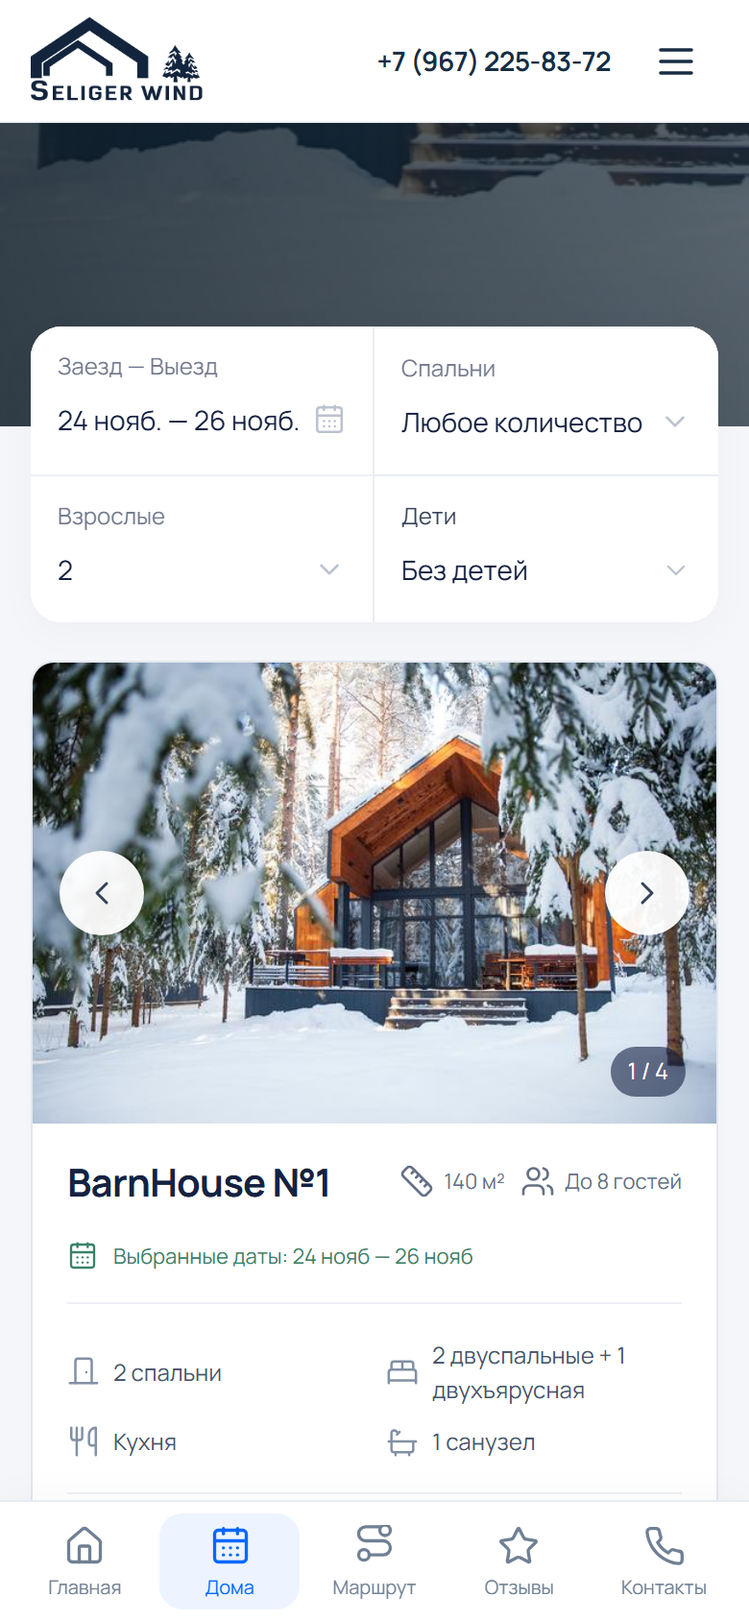
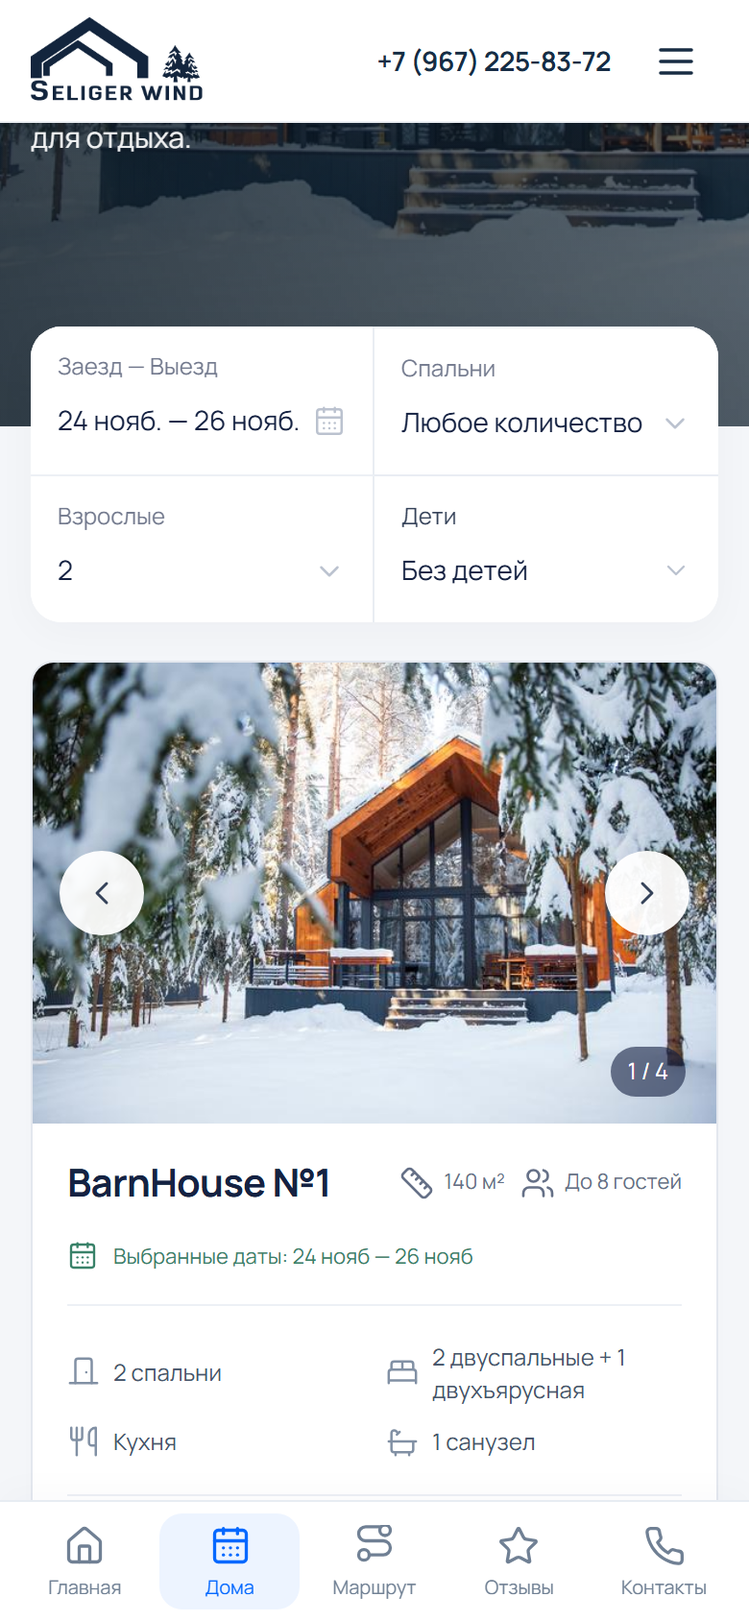
Tighten mobile hero and refresh presentation copy and screenshots

diff --git a/presentation.html b/presentation.html
@@ -1,24 +1,24 @@
-<!doctype html><html lang="ru"><head><meta charset="utf-8"><meta name="viewport" content="width=device-width,initial-scale=1"><meta name="robots" content="noindex,nofollow"><title>Seliger Wind — сравнение сайта до и после</title><link rel="stylesheet" href="presentation.css?v=details1"></head><body>
+<!doctype html><html lang="ru"><head><meta charset="utf-8"><meta name="viewport" content="width=device-width,initial-scale=1"><meta name="robots" content="noindex,nofollow"><title>Seliger Wind — сравнение сайта до и после</title><link rel="stylesheet" href="presentation.css?v=copy2"></head><body>
 <header class="presentation-header"><a href="#start">SELIGER WIND<span>Сравнение сайта до и после</span></a><nav class="presentation-nav" aria-label="Разделы презентации"><a href="#catalog">Изменения</a><a href="#quick">На телефоне</a><a href="#speed">Скорость</a><a href="#important">Важно</a><a href="#conclusion">Вывод</a></nav></header>
 <main>
 <section class="screen first-screen" id="start">
 <div class="screen-heading"><div><h1>Старая и новая версия сайта</h1><p class="intro">Передвиньте разделитель, чтобы сравнить первый экран.</p></div><div class="device-tabs" data-hero-tabs><button class="active" data-device="desktop" aria-pressed="true">Компьютер</button><button data-device="mobile" aria-pressed="false">Телефон</button></div></div>
-<div id="hero-desktop"><div class="hero-comparison-labels"><span>До</span><span>После</span></div><div class="browser-frame"><div class="browser-top"><i></i><i></i><i></i><span>Seliger Wind · первый экран</span></div><div class="reveal" style="--split:50%"><img src="assets/part-hero-after-desktop.webp?v=hd2" alt="Новый первый экран Seliger Wind" width="1440" height="900"><img class="before-image" src="assets/part-hero-before-desktop.webp?v=hd2" alt="Первый экран официального сайта до изменений" width="1440" height="900"><div class="reveal-line"><span>‹　›</span></div><input id="compare-range" type="range" min="0" max="100" value="50" aria-label="Граница сравнения старой и новой версии"></div></div></div>
+<div id="hero-desktop"><div class="hero-comparison-labels"><span>До</span><span>После</span></div><div class="browser-frame"><div class="browser-top"><i></i><i></i><i></i><span>Seliger Wind · первый экран</span></div><div class="reveal" style="--split:50%"><img src="assets/part-hero-after-desktop.webp?v=copy2" alt="Новый первый экран Seliger Wind" width="1440" height="900"><img class="before-image" src="assets/part-hero-before-desktop.webp?v=copy2" alt="Первый экран официального сайта до изменений" width="1440" height="900"><div class="reveal-line"><span>‹　›</span></div><input id="compare-range" type="range" min="0" max="100" value="50" aria-label="Граница сравнения старой и новой версии"></div></div></div>
 <div id="hero-mobile" class="comparison-pair mobile" hidden></div>
 <div class="findings"><article><h3>Проблема</h3><p>Первый экран описывал атмосферу отдыха. Форма Bnovo занимала несколько строк; даты заезда и выезда выбирались отдельно.</p></article><article><h3>Что изменили</h3><p>Указали место и типы размещения. Собрали даты, гостей и спальни в одном блоке рядом с каталогом.</p></article><article><h3>Что это даст</h3><p>Гость быстрее понимает предложение и может перейти к выбору дома с первого экрана.</p></article></div>
 </section>
 <div id="comparison-sections"></div>
 <section class="screen quick-screen" id="quick">
 <div class="screen-heading"><div><h2>Контакты и маршрут открываются снизу</h2></div></div>
-<div class="quick-layout"><div class="quick-copy"><p class="intro">Два действия в нижнем меню: связаться с администратором и построить маршрут.</p><div class="quick-buttons"><button class="active" data-quick="contacts" aria-pressed="true"><span data-icon="phone"></span><span>Контакты<small>Администратор и способы связи</small></span></button><button data-quick="route" aria-pressed="false"><span data-icon="route"></span><span>Маршрут<small>Карта, адрес и Яндекс Карты</small></span></button></div><div class="quick-description" id="quick-description"><h3>Телефон администратора всегда под рукой</h3><p>Гость открывает контакты из нижнего меню, не возвращаясь к началу страницы и не разыскивая номер в футере.</p></div><p class="note">Перед запуском нужно указать настоящие ссылки Telegram, WhatsApp и MAX. Сейчас часть ссылок ещё не подключена.</p></div><figure class="phone-frame quick-phone"><img id="quick-image" src="assets/quick-contacts.webp?v=hd2" alt="Открытая нижняя панель контактов" width="390" height="844" loading="lazy"></figure></div>
+<div class="quick-layout"><div class="quick-copy"><p class="intro">Два действия в нижнем меню: связаться с администратором и построить маршрут.</p><div class="quick-buttons"><button class="active" data-quick="contacts" aria-pressed="true"><span data-icon="phone"></span><span>Контакты<small>Администратор и способы связи</small></span></button><button data-quick="route" aria-pressed="false"><span data-icon="route"></span><span>Маршрут<small>Карта, адрес и Яндекс Карты</small></span></button></div><div class="quick-description" id="quick-description"><h3>Телефон администратора всегда под рукой</h3><p>Гость открывает контакты из нижнего меню, не возвращаясь к началу страницы и не разыскивая номер в футере.</p></div><p class="note">Перед запуском нужно указать настоящие ссылки Telegram, WhatsApp и MAX. Сейчас часть ссылок ещё не подключена.</p></div><figure class="phone-frame quick-phone"><img id="quick-image" src="assets/quick-contacts.webp?v=copy2" alt="Открытая нижняя панель контактов" width="390" height="844" loading="lazy"></figure></div>
 </section>
 <section class="screen speed-screen" id="speed"><div class="screen-heading"><div><h2>Скорость загрузки</h2></div><div class="device-tabs" id="speed-tabs"><button class="active" data-device="desktop" aria-pressed="true">Компьютер</button><button data-device="mobile" aria-pressed="false">Телефон</button></div></div>
 <div class="speed-numbers"><div><span>ДО</span><strong id="old-time">2,9 <small>с</small></strong><p id="old-score">PageSpeed: 54 / 100</p></div><span class="speed-arrow" aria-hidden="true">→</span><div><span>ПОСЛЕ</span><strong id="new-time">0,8 <small>с</small></strong><p id="new-score">PageSpeed: 100 / 100</p></div><p class="speed-definition">Время по LCP — появление крупнейшего видимого элемента. Это не время полной загрузки всех фото и видео.</p></div>
-<div class="speed-reports"><figure><a id="old-report-link" target="_blank" rel="noopener"><img id="old-report-image" src="assets/speed-old-desktop.webp?v=hd2" alt="PageSpeed — компьютер" width="1440" height="1100" loading="lazy"></a><figcaption>Официальный сайт · 21.11.2026, 13:39</figcaption></figure><figure><a id="new-report-link" target="_blank" rel="noopener"><img id="new-report-image" src="assets/speed-new-desktop.webp?v=hd2" alt="PageSpeed — компьютер" width="1440" height="1100" loading="lazy"></a><figcaption>Новая версия · 22.11.2026, 14:50</figcaption></figure></div>
+<div class="speed-reports"><figure><a id="old-report-link" target="_blank" rel="noopener"><img id="old-report-image" src="assets/speed-old-desktop.webp?v=copy2" alt="PageSpeed — компьютер" width="1440" height="1100" loading="lazy"></a><figcaption>Официальный сайт · 21.11.2026, 13:39</figcaption></figure><figure><a id="new-report-link" target="_blank" rel="noopener"><img id="new-report-image" src="assets/speed-new-desktop.webp?v=copy2" alt="PageSpeed — компьютер" width="1440" height="1100" loading="lazy"></a><figcaption>Новая версия · 22.11.2026, 14:50</figcaption></figure></div>
 <div class="findings"><article><h3>Проблема</h3><p>Большие изображения и длительные задачи замедляли появление контента. На телефоне LCP в исходном отчёте — 22,7 секунды.</p></article><article><h3>Что исправили</h3><p>Уменьшили фотографии и превью, добавили мобильные версии изображений, отложили второстепенные загрузки. Вес первого фото для телефона: 1,38 МБ → 133 КБ.</p></article><article><h3>Результат замера</h3><p>Телефон: 91 / 100, LCP 3,2 с. Компьютер: 100 / 100, LCP 0,8 с. SEO — 100 / 100, агентный просмотр — 2 / 2.</p></article></div><p class="note">Источники — отчёты PageSpeed по ссылкам на скриншотах. Это лабораторные проверки в разные даты, а не измерение скорости у всех посетителей.</p>
 </section>
 <section class="screen important-screen" id="important"><div class="important-panel"><div class="important-heading"><span class="important-label">ВАЖНО</span><h2>Восстановить документы и настроить работу с cookie</h2><p>В футере официального сайта есть ссылки на политику конфиденциальности и оферту, но страницы /privacy и /oferta возвращают 404. Проверено 22 ноября 2026 года.</p></div><div class="important-grid"><article><h3>Политика обработки данных</h3><p>Опубликовать действующую политику и поставить рабочие ссылки в футере и рядом с формами. Указать, какие данные собираются, для чего и кому передаются, в том числе при бронировании через Bnovo.</p></article><article><h3>Оферта и условия бронирования</h3><p>Восстановить полный текст оферты: исполнитель, порядок бронирования и оплаты, отмена и возврат. На главной есть название документа, но отдельная страница недоступна. Условия нужно согласовать с действующей схемой бронирования.</p></article><article><h3>Cookie и аналитика</h3><p>Проверить, какие cookie и счётчики используются. Описать их назначение, добавить уведомление и настройки выбора. Для обработки, требующей согласия, получать его до запуска соответствующих счётчиков и сохранять выбор посетителя.</p></article></div><div class="important-fine"><h3>За нарушения предусмотрены штрафы</h3><p>За неисполнение обязанности опубликовать политику обработки персональных данных: для ИП — <strong>10–20 тыс. ₽</strong>, для юридических лиц — <strong>30–60 тыс. ₽</strong> (ч. 3 ст. 13.11 КоАП РФ).</p><p>Для cookie, позволяющих прямо или косвенно определить человека, действуют требования к персональным данным. Ответственность зависит от нарушения и основания обработки — отдельного универсального штрафа «за отсутствие cookie-баннера» нет.</p></div><div class="important-sources"><span>Основания:</span><a href="https://www.consultant.ru/document/cons_doc_LAW_61801/eeeebe22bf738fd65bb66b95cc278911ae2525ee/" target="_blank" rel="noopener">152-ФЗ, ст. 18.1</a><a href="https://www.consultant.ru/document/cons_doc_LAW_34661/1f421640c6775ff67079ebde06a7d2f6d17b96db/" target="_blank" rel="noopener">КоАП РФ, ст. 13.11</a><a href="https://seligerwind.com/" target="_blank" rel="noopener">Официальный сайт</a></div></div></section>
-<section class="screen closing" id="conclusion"><h2>Гостю проще выбрать дом и перейти к бронированию</h2><div class="closing-grid"><article><h3>Основные условия видны сразу</h3><p>Цена, питание, предоплата, спальни и кровати собраны в карточке. Это сокращает переходы между описаниями и помогает сравнить подходящие дома до оформления брони.</p></article><article><h3>Основной контент появляется быстрее</h3><p>В замерах PageSpeed LCP на компьютере снизился с 2,9 до 0,8 с, на телефоне — с 22,7 до 3,2 с. Меньше ожидания до знакомства с предложением и выбора дома.</p></article><article><h3>Связаться с администратором проще</h3><p>Контакты доступны из нижнего меню на телефоне. В нужных разделах есть кнопки для выбора дома и звонка. Гостю не приходится искать номер или возвращаться к началу страницы.</p></article></div><div class="closing-result"><h3>Что это даст комплексу</h3><p>Быстрая загрузка, сравнение условий в карточках и доступные контакты упрощают путь от выбора дома до обращения. Ожидаемый эффект — больше переходов к бронированию и меньше вопросов об основных условиях проживания.</p><p class="note">Рост заявок пока не измерен. После подключения актуальных цен и наличия из Bnovo результат нужно оценить по завершённым бронированиям и обращениям при сопоставимом трафике.</p></div></section>
+<section class="screen closing" id="conclusion"><h2>Гостю проще выбрать дом и перейти к бронированию</h2><div class="closing-grid"><article><h3>Основные условия видны сразу</h3><p>Цена, питание, предоплата, спальни и кровати собраны в карточке. Это сокращает переходы между описаниями и помогает сравнить подходящие дома до оформления брони.</p></article><article><h3>Основной контент появляется быстрее</h3><p>В замерах PageSpeed LCP на компьютере снизился с 2,9 до 0,8 с, на телефоне — с 22,7 до 3,2 с. Меньше ожидания до знакомства с предложением и выбора дома.</p></article><article><h3>Связаться с администратором проще</h3><p>Контакты доступны из нижнего меню на телефоне. В нужных разделах есть кнопки для выбора дома и звонка. Гостю не приходится искать номер или возвращаться к началу страницы.</p></article></div><div class="closing-result"><h3>Что это даст комплексу</h3><p>Посетитель быстрее открывает сайт, сравнивает дома и видит цену с предоплатой. Телефон администратора доступен рядом с предложением. Рассчитываем, что это увеличит число переходов к бронированию и сократит вопросы о комплектации и стоимости.</p><p class="note">Рост заявок пока не измерен. После подключения актуальных цен и наличия из Bnovo результат нужно оценить по завершённым бронированиям и обращениям при сопоставимом трафике.</p></div></section>
 </main>
 <footer><strong>SELIGER WIND</strong><a href="./" target="_blank" rel="noopener">Открыть новую версию сайта →</a></footer>
 <script type="module">
@@ -27,23 +27,23 @@ document.querySelectorAll('[data-icon]').forEach(e=>e.innerHTML=icon(e.dataset.i
 const parts=[
 {key:'parameters',number:'02',title:'Параметры подбора дома',problem:'Заезд и выезд выбираются в отдельных полях. В исходной форме нет выбора количества спален: этот параметр приходится искать в описаниях домов.',change:'Объединили даты в один календарь. Рядом разместили взрослых, детей и спальни. При прокрутке каталога параметры остаются под рукой.',effect:'Гость задаёт условия поездки в одном месте и может изменить их во время просмотра домов. Не нужно возвращаться к первому экрану.'},
 {key:'catalog',number:'02',title:'Карточка дома',problem:'На старой главной — фотографии, описания и переходы «Подробнее». Сравнение тарифов происходит в модуле бронирования.',change:'В одной карточке собрали фото, вместимость, спальни, кровати, кухню и санузел. Ниже — переключатель питания с ценами, итоговая стоимость, сумма предоплаты и кнопка «Забронировать».',effect:'Гость видит условия и сумму предоплаты до перехода к оформлению. Дома можно сравнить по одинаковым характеристикам, не открывая каждое описание.'},
-{key:'complex',number:'03',title:'Информация о комплексе и видео',problem:'Длинное описание комплекса и отдельные видеоматериалы требуют внимания до перехода к выбору дома.',change:'Собрали видео в один блок с переключением, управлением и полноэкранным просмотром. Заголовок меняется вместе с выбранным роликом.',effect:'Гость может посмотреть дома и территорию, выбрать интересующий ролик и открыть его на весь экран.'},
-{key:'territory',number:'03',title:'Карта территории',problem:'План территории должен помогать выбрать дом, а не только показывать расположение объектов. На телефоне мелкие детали трудно рассмотреть.',change:'Сохранили исходный план и расположение объектов. Добавили выбор объекта, карточку с информацией и масштабирование на телефоне.',effect:'Можно посмотреть расположение дома и объектов рядом. Для мобильного просмотра не требуется уменьшать весь план до нечитаемого размера.'},
-{key:'leisure',number:'04',title:'Баня с чаном',problem:'Вопросы об услугах и условиях поездки возникают до бронирования. Короткого описания без подробных фотографий недостаточно для выбора.',change:'Оформили отдельные блоки с описаниями и галереями. Для бани показали стоимость услуг. Добавили действия для семей и гостей с животными.',effect:'Гость может оценить, подходит ли комплекс под его поездку. Меньше сведений приходится уточнять отдельно.'},
-{key:'playground',number:'06',title:'Отдых с детьми',problem:'Семье важно до поездки понять, чем ребёнок сможет заниматься на территории и как выглядит площадка.',change:'Добавили галерею фотографий, конкретное описание и действие для выбора дома для семьи.',effect:'Информация об отдыхе с детьми находится рядом с фотографиями. Из блока можно вернуться к подбору дома.'},
-{key:'pets',number:'07',title:'Отдых с питомцем',problem:'Возможность проживания с животным — отдельное условие выбора. Гостю нужно найти эту информацию до обращения.',change:'Выделили отдых с питомцами в отдельный блок с фотографией, описанием и действием для обращения к администратору.',effect:'Гость видит, что поездку с животным можно обсудить, и получает понятный следующий шаг.'},
-{key:'reviews',number:'05',title:'Отзывы гостей',problem:'Отзывы нужно читать, сравнивать и проверять по источнику. На исходном сайте многие тексты обрезаны.',change:'Собрали рейтинг и количество отзывов, компактные вкладки по темам и слайдер. Полный текст раскрывается по нажатию, есть ссылка на Яндекс.',effect:'Отзывы можно изучить прямо на странице. Источник доступен для проверки. Перед запуском данные нужно обновить.'},
+{key:'complex',number:'03',title:'Информация о комплексе и видео',problem:'Описание комплекса и видео занимают несколько отдельных блоков. Чтобы посмотреть ролики, приходится листать страницу.',change:'Собрали видео в один блок с переключением, управлением и полноэкранным просмотром. Заголовок меняется вместе с выбранным роликом.',effect:'Гость может посмотреть дома и территорию, выбрать интересующий ролик и открыть его на весь экран.'},
+{key:'territory',number:'03',title:'Карта территории',problem:'На телефоне подписи и объекты на плане мелкие. По общей схеме трудно рассмотреть нужный дом.',change:'Сохранили исходный план и расположение объектов. Добавили выбор объекта, карточку с информацией и масштабирование на телефоне.',effect:'Можно посмотреть расположение дома и объектов рядом. На телефоне план можно увеличить.'},
+{key:'leisure',number:'04',title:'Баня с чаном',problem:'В блоке бани мало подробностей: фотографии, стоимость и условия нужно искать отдельно.',change:'Собрали фотографии бани и чана в галерею. Рядом разместили описание и стоимость услуг.',effect:'Можно посмотреть баню и узнать стоимость на главной, до звонка администратору.'},
+{key:'playground',number:'06',title:'Отдых с детьми',problem:'Семье важно до поездки понять, чем ребёнок сможет заниматься на территории и как выглядит площадка.',change:'Добавили фотографии площадки, описание и кнопку «Выбрать дом для семьи».',effect:'Информация об отдыхе с детьми находится рядом с фотографиями. Из блока можно вернуться к подбору дома.'},
+{key:'pets',number:'07',title:'Отдых с питомцем',problem:'Гостям с собакой важно заранее знать, можно ли приехать с питомцем и какие действуют ограничения.',change:'Добавили отдельный блок с фотографиями, условиями проживания с животными и кнопкой звонка.',effect:'Условия видны на странице. Если остались вопросы, можно сразу позвонить администратору.'},
+{key:'reviews',number:'05',title:'Отзывы гостей',problem:'На исходном сайте длинные отзывы обрезаны. Для чтения полного текста нужно дополнительное действие.',change:'Собрали рейтинг и количество отзывов, компактные вкладки по темам и слайдер. Полный текст раскрывается по нажатию, есть ссылка на Яндекс.',effect:'Отзывы можно изучить прямо на странице. Есть переход к оригиналам на Яндексе. Перед запуском нужно обновить рейтинг и число отзывов.'},
 {key:'contacts',number:'06',title:'Контакты и маршрут',problem:'Перед поездкой нужно найти адрес и построить маршрут. Перед выбором дома — связаться с администратором.',change:'Собрали полный адрес, карту и телефон. На телефоне добавили нижнее меню с отдельными действиями «Контакты» и «Маршрут».',effect:'Гость может позвонить или перейти к маршруту без поиска нужной информации по странице.'}
 ];
-function pair(key,device){return ['before','after'].map((version,i)=>'<figure class="'+(device==='mobile'?'phone-figure':'desktop-figure')+'"><figcaption><span class="version-label '+(i?'new':'')+'">'+(i?'ПОСЛЕ':'ДО')+'</span><span>'+(i?'Новая версия':'Официальный сайт')+'</span></figcaption><div class="'+(device==='mobile'?'phone-frame':'browser-frame')+'"><img src="assets/part-'+key+'-'+version+'-'+device+'.webp?v=hd2" alt="'+(i?'Новая':'Старая')+' версия — '+key+' — '+(device==='mobile'?'телефон':'компьютер')+'" width="'+(device==='mobile'?390:1440)+'" height="'+(device==='mobile'?844:900)+'" loading="lazy"></div></figure>').join('')}
+function pair(key,device){return ['before','after'].map((version,i)=>'<figure class="'+(device==='mobile'?'phone-figure':'desktop-figure')+'"><figcaption><span class="version-label '+(i?'new':'')+'">'+(i?'ПОСЛЕ':'ДО')+'</span><span>'+(i?'Новая версия':'Официальный сайт')+'</span></figcaption><div class="'+(device==='mobile'?'phone-frame':'browser-frame')+'"><img src="assets/part-'+key+'-'+version+'-'+device+'.webp?v=copy2" alt="'+(i?'Новая':'Старая')+' версия — '+key+' — '+(device==='mobile'?'телефон':'компьютер')+'" width="'+(device==='mobile'?390:1440)+'" height="'+(device==='mobile'?844:900)+'" loading="lazy"></div></figure>').join('')}
 document.querySelector('#hero-mobile').innerHTML=pair('hero','mobile');
 document.querySelector('#comparison-sections').innerHTML=parts.map((p,i)=>'<section class="screen comparison-section" id="'+p.key+'"><div class="screen-heading"><div><p class="eyebrow">'+String(i+2).padStart(2,'0')+' / СРАВНЕНИЕ БЛОКОВ</p><h2>'+p.title+'</h2></div><div class="device-tabs"><button class="active" data-device="desktop" aria-pressed="true">Компьютер</button><button data-device="mobile" aria-pressed="false">Телефон</button></div></div><div class="comparison-pair desktop">'+pair(p.key,'desktop')+'</div><div class="findings"><article><h3>Проблема</h3><p>'+p.problem+'</p></article><article><h3>Что изменили</h3><p>'+p.change+'</p></article><article><h3>Что это даст</h3><p>'+p.effect+'</p></article></div></section>').join('');
 function select(button){button.parentElement.querySelectorAll('button').forEach(b=>{b.classList.toggle('active',b===button);b.setAttribute('aria-pressed',String(b===button))})}
 document.querySelectorAll('.comparison-section').forEach((section,i)=>section.querySelectorAll('[data-device]').forEach(button=>button.onclick=()=>{select(button);const target=section.querySelector('.comparison-pair');target.className='comparison-pair '+button.dataset.device;target.innerHTML=pair(parts[i].key,button.dataset.device)}));
 document.querySelectorAll('[data-hero-tabs] button').forEach(b=>b.onclick=()=>{select(b);document.querySelector('#hero-desktop').hidden=b.dataset.device!=='desktop';document.querySelector('#hero-mobile').hidden=b.dataset.device!=='mobile'});
 const range=document.querySelector('#compare-range');range.oninput=()=>range.closest('.reveal').style.setProperty('--split',range.value+'%');
-document.querySelectorAll('[data-quick]').forEach(b=>b.onclick=()=>{select(b);const contact=b.dataset.quick==='contacts',img=document.querySelector('#quick-image');img.src='assets/quick-'+b.dataset.quick+'.webp?v=hd2';img.alt=contact?'Открытая панель контактов':'Открытая панель маршрута';document.querySelector('#quick-description').innerHTML=contact?'<h3>Телефон администратора всегда под рукой</h3><p>Гость открывает контакты из нижнего меню, не возвращаясь к началу страницы и не разыскивая номер в футере.</p>':'<h3>Адрес и построение маршрута в одной панели</h3><p>В шторке видны карта, полный адрес и кнопка перехода к построению маршрута через Яндекс Карты.</p>'});
-function speed(device){const mobile=device==='mobile';document.querySelector('#old-time').innerHTML=(mobile?'22,7':'2,9')+' <small>с</small>';document.querySelector('#new-time').innerHTML=(mobile?'3,2':'0,8')+' <small>с</small>';document.querySelector('#old-score').textContent='PageSpeed: '+(mobile?'42':'54')+' / 100';document.querySelector('#new-score').textContent='PageSpeed: '+(mobile?'91':'100')+' / 100';for(const version of ['old','new']){const img=document.querySelector('#'+version+'-report-image');img.src='assets/speed-'+version+'-'+device+'.webp?v=hd2';img.alt='PageSpeed '+(version==='old'?'официального сайта':'новой версии')+' — '+(mobile?'телефон':'компьютер');document.querySelector('#'+version+'-report-link').href='https://pagespeed.web.dev/analysis/'+(version==='old'?'https-seligerwind-com/vlc6f2ppz3':'https-vrumpro-github-io-seligerwind/a98amdj4bi')+'?form_factor='+device}}
+document.querySelectorAll('[data-quick]').forEach(b=>b.onclick=()=>{select(b);const contact=b.dataset.quick==='contacts',img=document.querySelector('#quick-image');img.src='assets/quick-'+b.dataset.quick+'.webp?v=copy2';img.alt=contact?'Открытая панель контактов':'Открытая панель маршрута';document.querySelector('#quick-description').innerHTML=contact?'<h3>Телефон администратора всегда под рукой</h3><p>Гость открывает контакты из нижнего меню, не возвращаясь к началу страницы и не разыскивая номер в футере.</p>':'<h3>Адрес и построение маршрута в одной панели</h3><p>В шторке видны карта, полный адрес и кнопка перехода к построению маршрута через Яндекс Карты.</p>'});
+function speed(device){const mobile=device==='mobile';document.querySelector('#old-time').innerHTML=(mobile?'22,7':'2,9')+' <small>с</small>';document.querySelector('#new-time').innerHTML=(mobile?'3,2':'0,8')+' <small>с</small>';document.querySelector('#old-score').textContent='PageSpeed: '+(mobile?'42':'54')+' / 100';document.querySelector('#new-score').textContent='PageSpeed: '+(mobile?'91':'100')+' / 100';for(const version of ['old','new']){const img=document.querySelector('#'+version+'-report-image');img.src='assets/speed-'+version+'-'+device+'.webp?v=copy2';img.alt='PageSpeed '+(version==='old'?'официального сайта':'новой версии')+' — '+(mobile?'телефон':'компьютер');document.querySelector('#'+version+'-report-link').href='https://pagespeed.web.dev/analysis/'+(version==='old'?'https-seligerwind-com/vlc6f2ppz3':'https-vrumpro-github-io-seligerwind/a98amdj4bi')+'?form_factor='+device}}
 document.querySelectorAll('#speed-tabs button').forEach(b=>b.onclick=()=>{select(b);speed(b.dataset.device)});speed('desktop');
 document.querySelectorAll('.comparison-section .eyebrow').forEach(e=>e.remove());
 function simplifyCaptions(){

diff --git a/index.html b/index.html
@@ -1,5 +1,5 @@
 <!doctype html>
-<html lang="ru"><head><meta charset="utf-8"><meta name="robots" content="index, follow, max-image-preview:large"><meta name="viewport" content="width=device-width,initial-scale=1"><title>Seliger Wind — отдых у озера Волго</title><link rel="canonical" href="https://vrumpro.github.io/seligerwind/"><meta property="og:type" content="website"><meta property="og:locale" content="ru_RU"><meta property="og:title" content="Seliger Wind — отдых у озера Волго"><meta property="og:description" content="Дома и виллы в сосновом лесу у озера Волго. Фотографии, планировки, баня с чаном, отдых с детьми и питомцами."><meta property="og:url" content="https://vrumpro.github.io/seligerwind/"><meta property="og:image" content="https://vrumpro.github.io/seligerwind/assets/winter-1.webp"><meta name="twitter:card" content="summary_large_image"><meta name="description" content="Дома и глэмпинг в сосновом лесу у озера Волго. Выберите даты, сравните варианты проживания и забронируйте онлайн."><link rel="preload" href="assets/Manrope-Variable.ttf" as="font" type="font/ttf" crossorigin><link rel="preload" as="image" href="assets/winter-1.webp" imagesrcset="assets/winter-1-mobile.webp 900w, assets/winter-1.webp 1500w" imagesizes="100vw" fetchpriority="high"><link rel="modulepreload" href="app.js"><link rel="modulepreload" href="booking-ui.js"><link rel="modulepreload" href="icons.js"><link rel="modulepreload" href="custom-fields.js"><link rel="modulepreload" href="catalog.js"><link rel="modulepreload" href="booking.js"><link rel="modulepreload" href="booking-snapshot.js"><link rel="modulepreload" href="booking-icons.js"><link rel="stylesheet" href="styles.css"></head><body>
+<html lang="ru"><head><meta charset="utf-8"><meta name="robots" content="index, follow, max-image-preview:large"><meta name="viewport" content="width=device-width,initial-scale=1"><title>Seliger Wind — отдых у озера Волго</title><link rel="canonical" href="https://vrumpro.github.io/seligerwind/"><meta property="og:type" content="website"><meta property="og:locale" content="ru_RU"><meta property="og:title" content="Seliger Wind — отдых у озера Волго"><meta property="og:description" content="Дома и виллы в сосновом лесу у озера Волго. Фотографии, планировки, баня с чаном, отдых с детьми и питомцами."><meta property="og:url" content="https://vrumpro.github.io/seligerwind/"><meta property="og:image" content="https://vrumpro.github.io/seligerwind/assets/winter-1.webp"><meta name="twitter:card" content="summary_large_image"><meta name="description" content="Дома и глэмпинг в сосновом лесу у озера Волго. Выберите даты, сравните варианты проживания и забронируйте онлайн."><link rel="preload" href="assets/Manrope-Variable.ttf" as="font" type="font/ttf" crossorigin><link rel="preload" as="image" href="assets/winter-1.webp" imagesrcset="assets/winter-1-mobile.webp 900w, assets/winter-1.webp 1500w" imagesizes="100vw" fetchpriority="high"><link rel="modulepreload" href="app.js"><link rel="modulepreload" href="booking-ui.js"><link rel="modulepreload" href="icons.js"><link rel="modulepreload" href="custom-fields.js"><link rel="modulepreload" href="catalog.js"><link rel="modulepreload" href="booking.js"><link rel="modulepreload" href="booking-snapshot.js"><link rel="modulepreload" href="booking-icons.js"><link rel="stylesheet" href="styles.css?v=mobilehero2"></head><body>
 <a class="skip" href="#search">Перейти к выбору дат</a>
 <header><a class="brand brand-original" href="#" aria-label="Seliger Wind — главная"><img src="assets/logo.png" width="500" height="287" alt="Seliger Wind"></a><nav aria-label="Главная навигация"><a href="#home">Главная</a><a href="#houses">Наши дома</a><a href="#directions">Как добраться</a><a href="#contacts">Контакты</a><a href="https://seligerwind.com/rules_of_accommodation" target="_blank" rel="noopener">Правила</a></nav><div class="header-contact"><a class="phone" href="tel:+79672258372">+7 (967) 225-83-72</a><div class="header-messengers" aria-label="Мессенджеры">
 <a class="messenger messenger-telegram" href="#" aria-label="Написать в Telegram" title="Telegram"><svg viewBox="0 0 24 24" aria-hidden="true"><path fill="currentColor" d="M20.7 4.1 17.5 19c-.24 1.05-.87 1.3-1.75.81l-4.86-3.58-2.34 2.25c-.26.26-.48.48-.98.48l.35-4.97 9.04-8.17c.39-.35-.08-.55-.6-.2L5.18 12.66.37 11.16c-1.05-.33-1.07-1.05.22-1.55L19.4 2.36c.87-.32 1.63.2 1.3 1.74Z" transform="translate(3 2.4) scale(.87)"/></svg></a>

diff --git a/styles.css b/styles.css
@@ -1512,8 +1512,8 @@ footer.site-footer{margin-top:16px;padding:56px 0 24px;background:#102338}
  header:not(.is-scrolled){background:transparent;border-bottom-color:transparent}
  header:not(.is-scrolled) .brand.brand-original img{filter:brightness(0) invert(1)}
  header:not(.is-scrolled) .header-contact>.phone,header:not(.is-scrolled) .mobile-menu-toggle{color:#fff}
- .hero{min-height:570px!important;min-height:max(570px,72svh)!important;padding-top:64px!important}
- .hero-intro{padding:70px 16px 100px!important}
+ .hero{min-height:500px!important;padding-top:64px!important}
+ .hero-intro{padding:52px 16px 76px!important}
  #search.search-wrap{margin:-52px 0 20px!important;z-index:12}
  .mobile-bottom-nav a,.mobile-bottom-nav button{display:flex;flex-direction:column;align-items:center;justify-content:center;gap:4px;min-width:0;min-height:50px;padding:0 2px;border:0;border-radius:12px;background:transparent;text-decoration:none;color:#708094;font:inherit;font-size:10px;line-height:1.3;text-align:center}
  .mobile-bottom-nav button.is-active{color:var(--blue);background:#edf4ff}

diff --git a/presentation.css b/presentation.css
@@ -68,5 +68,5 @@ h2{font-size:clamp(26px,2.8vw,40px)}
 .findings article:nth-child(3){border-color:#cdded7;border-top-color:#7b9e8b;background:#f0f6f3}
 .findings h3{font-size:16px;font-weight:750;color:#20384d;margin-bottom:12px}
 .findings p{color:#3e5367}
-@media(min-width:901px){#hero-desktop{width:min(100%,1178px,calc((100svh - 365px)*1.6))}}
+@media(min-width:901px){#hero-desktop{width:min(100%,1178px,calc((100svh - 330px)*1.6))}}
 @media(max-width:600px){.findings article{padding:18px}.hero-comparison-labels{font-size:12px;margin-bottom:9px}}
